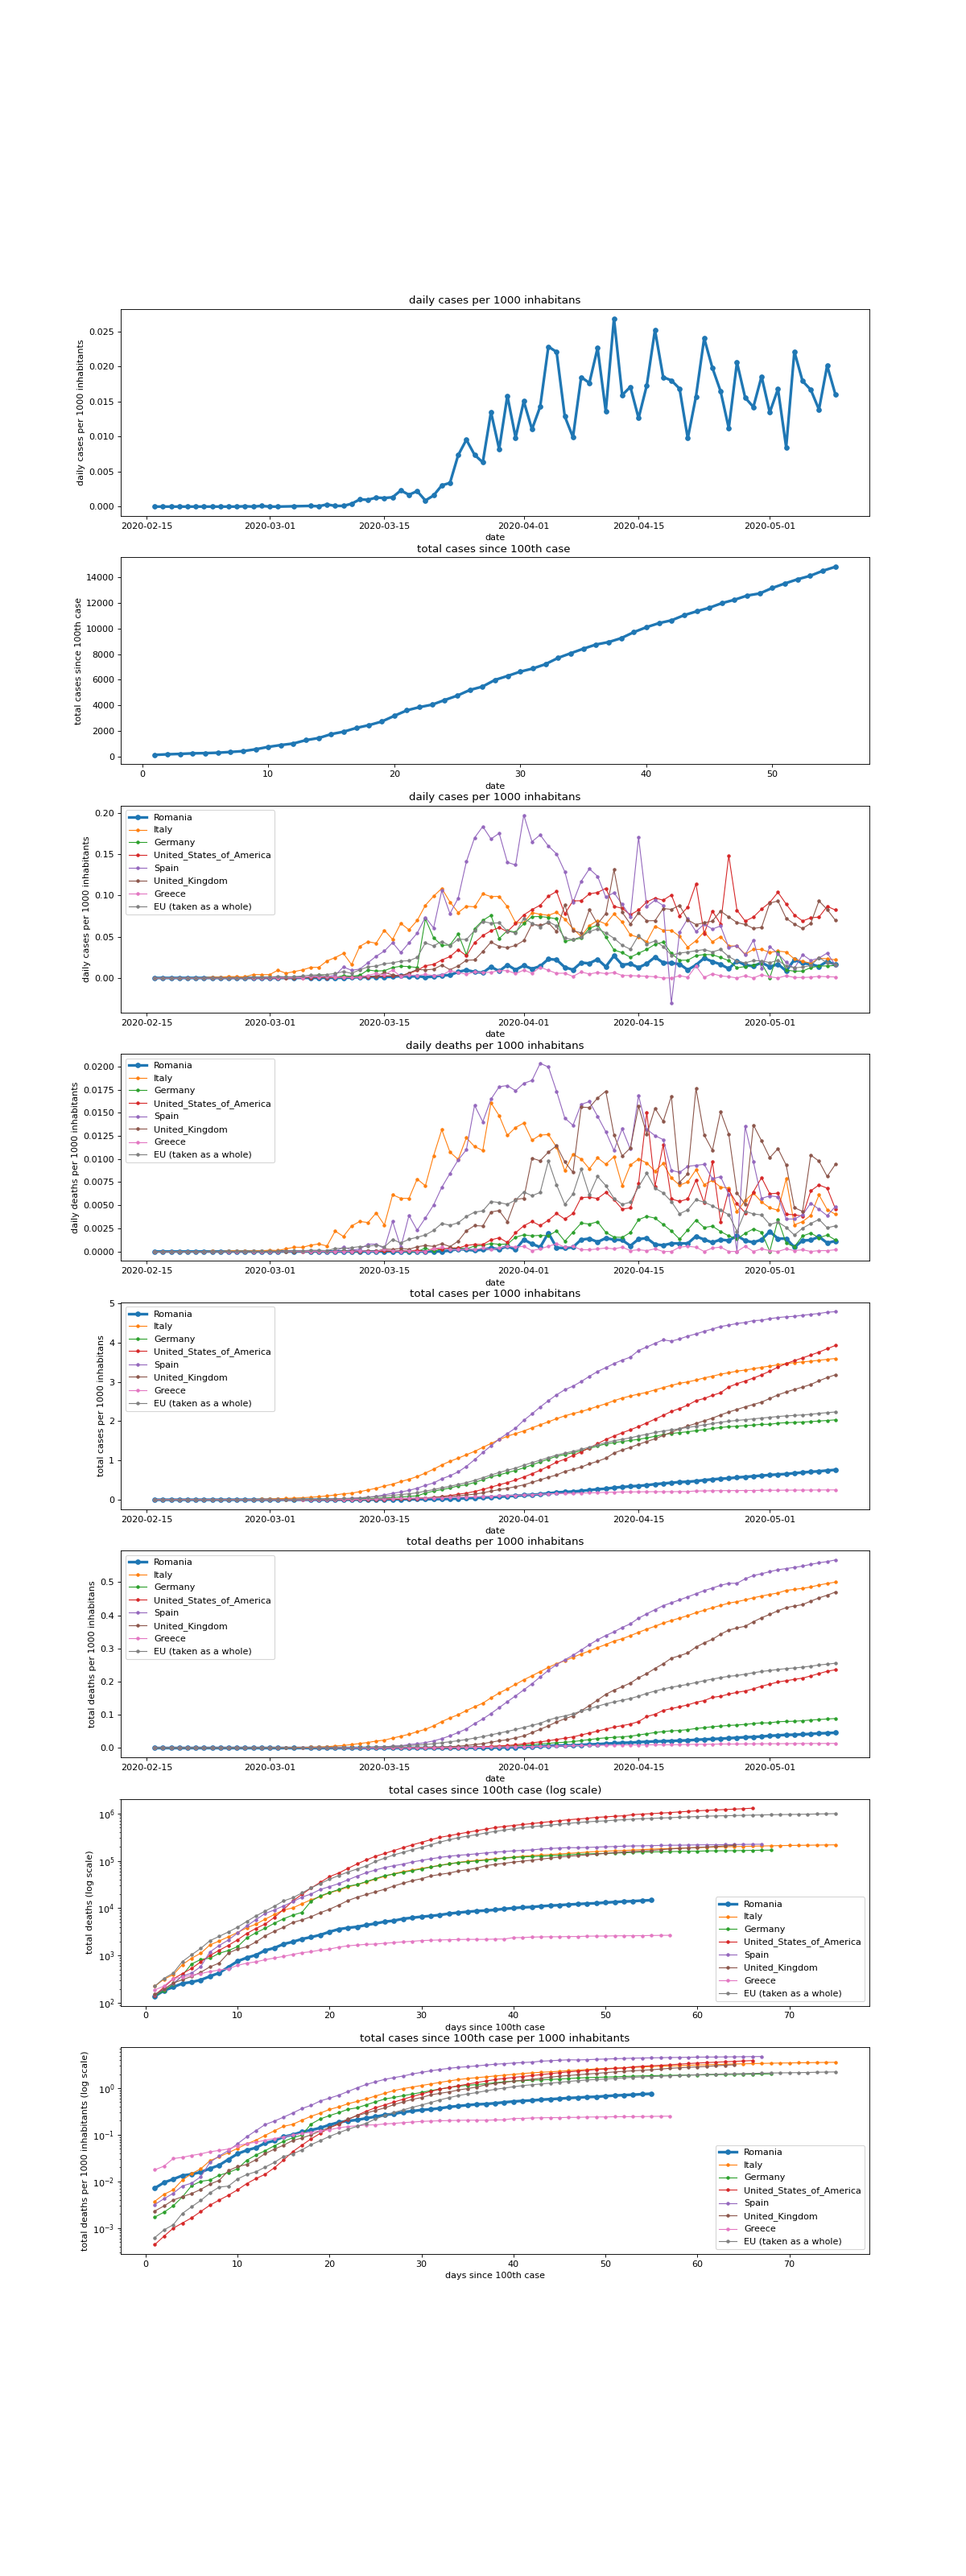
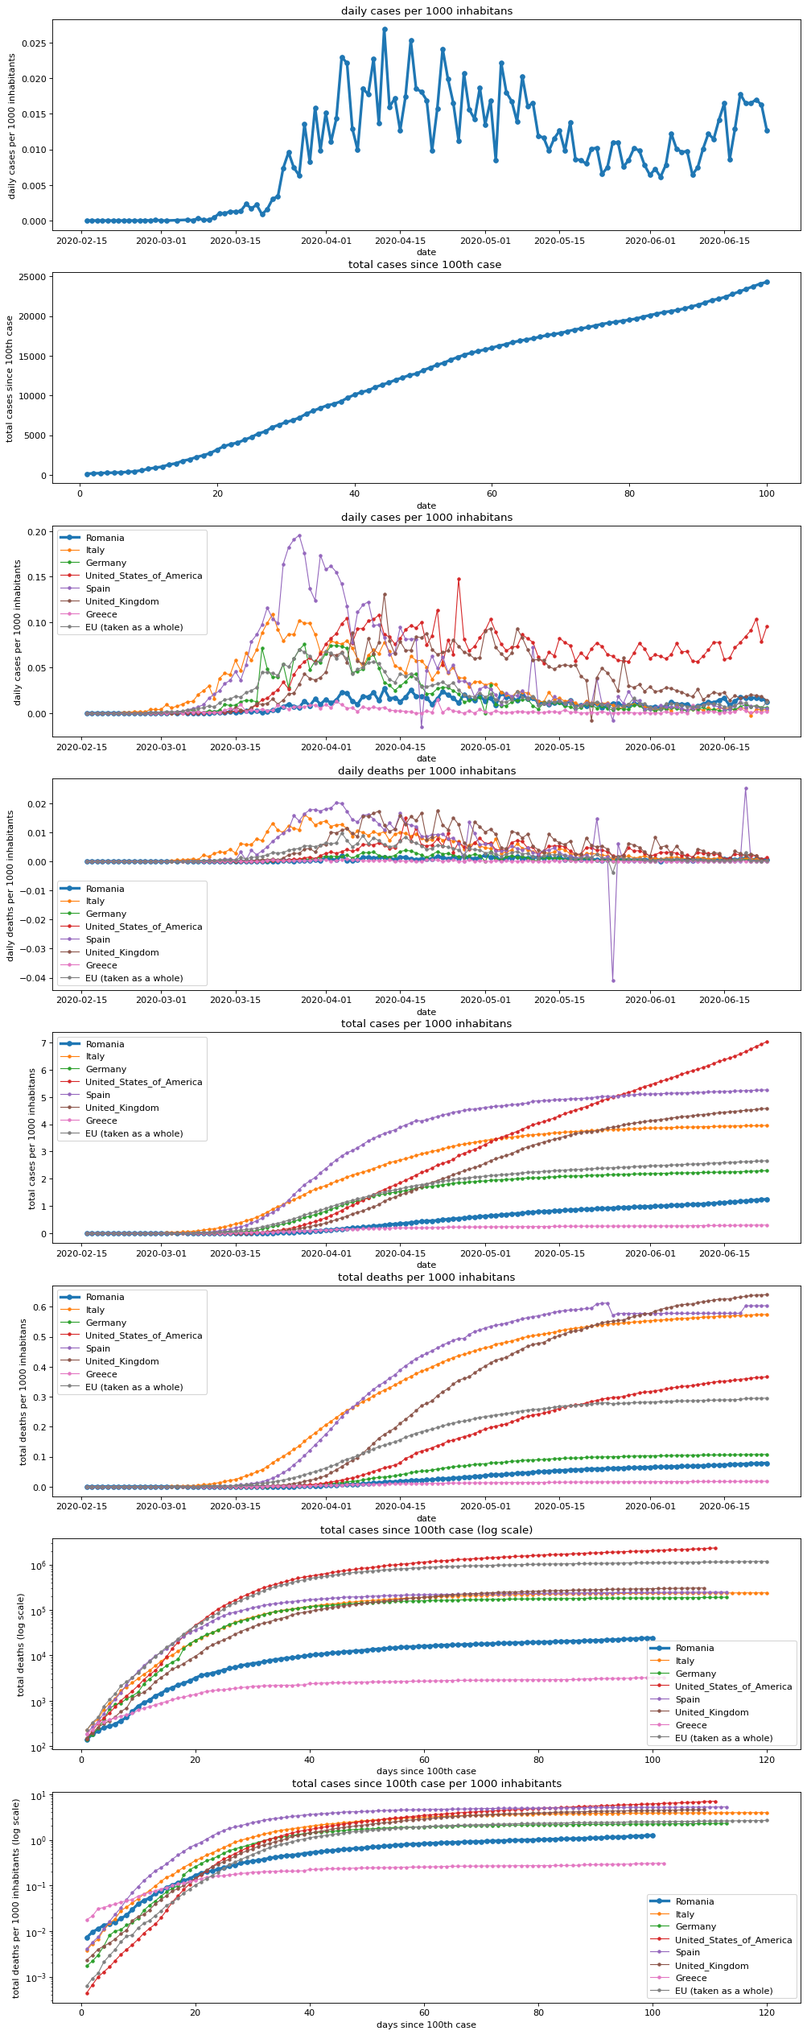
updated to 2019 pop stats

diff --git a/stats_update.py b/stats_update.py
@@ -34,8 +34,8 @@ def update_romanian_stats(destination_path):
     eu_dateRep=eudf.groupby("dateRep").dateRep.nth(1) 
     eu_cases=eudf.groupby("dateRep").cases.agg('sum')
     eu_deaths=eudf.groupby("dateRep").deaths.agg('sum')
-    eu_pop=eudf.groupby("dateRep").popData2018.agg('sum')
-    eudf2=pd.DataFrame({"countriesAndTerritories":"EU (taken as a whole)","cases":eu_cases, "deaths":eu_deaths ,"popData2018":eu_pop}).reset_index()
+    eu_pop=eudf.groupby("dateRep").popData2019.agg('sum')
+    eudf2=pd.DataFrame({"countriesAndTerritories":"EU (taken as a whole)","cases":eu_cases, "deaths":eu_deaths ,"popData2019":eu_pop}).reset_index()
     df=df.append(eudf2, ignore_index = True, sort = True)
 
         
@@ -55,7 +55,7 @@ def update_romanian_stats(destination_path):
     linewidth=3
     markersize=10
 
-    ax[0].plot(c.dateRep, c.cases/c.popData2018*1000, linewidth=linewidth, marker=".", markersize=markersize)
+    ax[0].plot(c.dateRep, c.cases/c.popData2019*1000, linewidth=linewidth, marker=".", markersize=markersize)
     ax[1].plot(c2.days_since_100thcase_int, c2.total_cases, linewidth=linewidth, marker=".", markersize=markersize)
         
 
@@ -78,12 +78,12 @@ def update_romanian_stats(destination_path):
             linewidth=3
             markersize=10
         
-        ax[2].plot(c.dateRep, c.cases/c.popData2018*1000, linewidth=linewidth, marker=".", markersize=markersize)
-        ax[3].plot(c.dateRep, c.deaths/c.popData2018*1000, linewidth=linewidth, marker=".",  markersize=markersize)
-        ax[4].plot(c.dateRep, c.total_cases/c.popData2018*1000, linewidth=linewidth, marker=".",   markersize=markersize)
-        ax[5].plot(c.dateRep, c.total_deaths/c.popData2018*1000, linewidth=linewidth, marker=".", markersize=markersize)
+        ax[2].plot(c.dateRep, c.cases/c.popData2019*1000, linewidth=linewidth, marker=".", markersize=markersize)
+        ax[3].plot(c.dateRep, c.deaths/c.popData2019*1000, linewidth=linewidth, marker=".",  markersize=markersize)
+        ax[4].plot(c.dateRep, c.total_cases/c.popData2019*1000, linewidth=linewidth, marker=".",   markersize=markersize)
+        ax[5].plot(c.dateRep, c.total_deaths/c.popData2019*1000, linewidth=linewidth, marker=".", markersize=markersize)
         ax[6].plot(c2.days_since_100thcase_int, c2.total_cases, linewidth=linewidth, marker=".", markersize=markersize)
-        ax[7].plot(c2.days_since_100thcase_int, c2.total_cases/c2.popData2018*1000, linewidth=linewidth, marker=".", markersize=markersize)
+        ax[7].plot(c2.days_since_100thcase_int, c2.total_cases/c2.popData2019*1000, linewidth=linewidth, marker=".", markersize=markersize)
 
 
 
